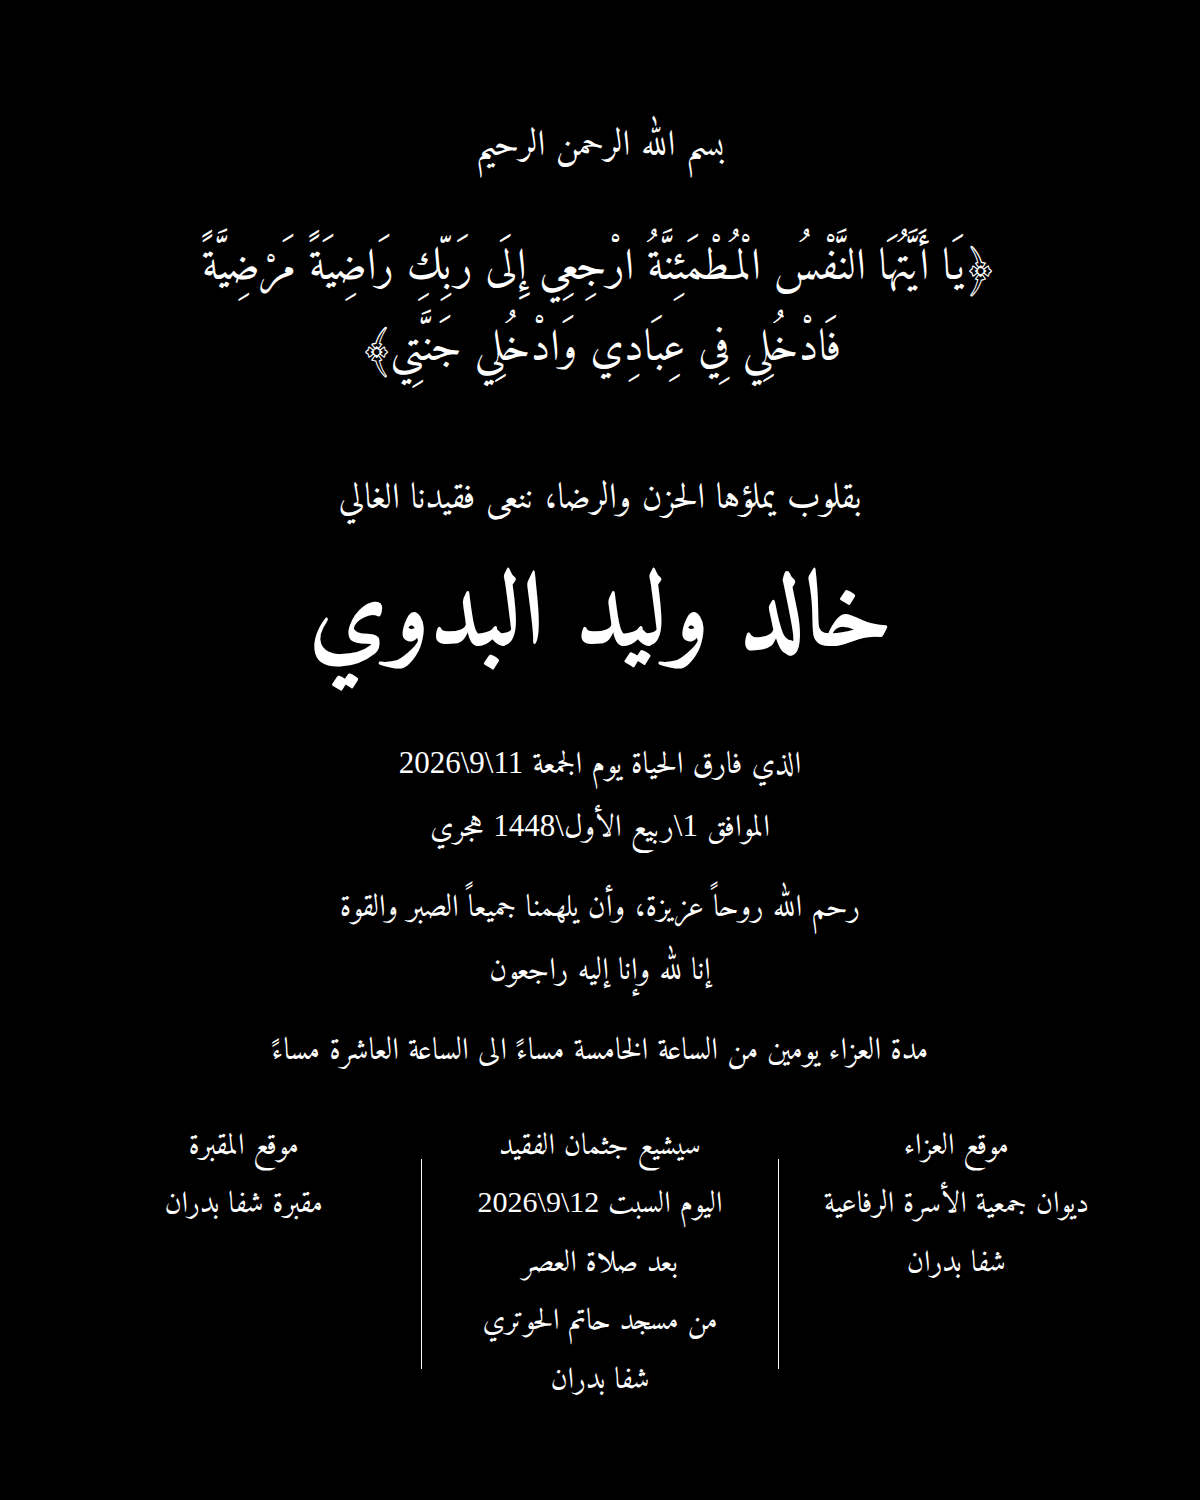
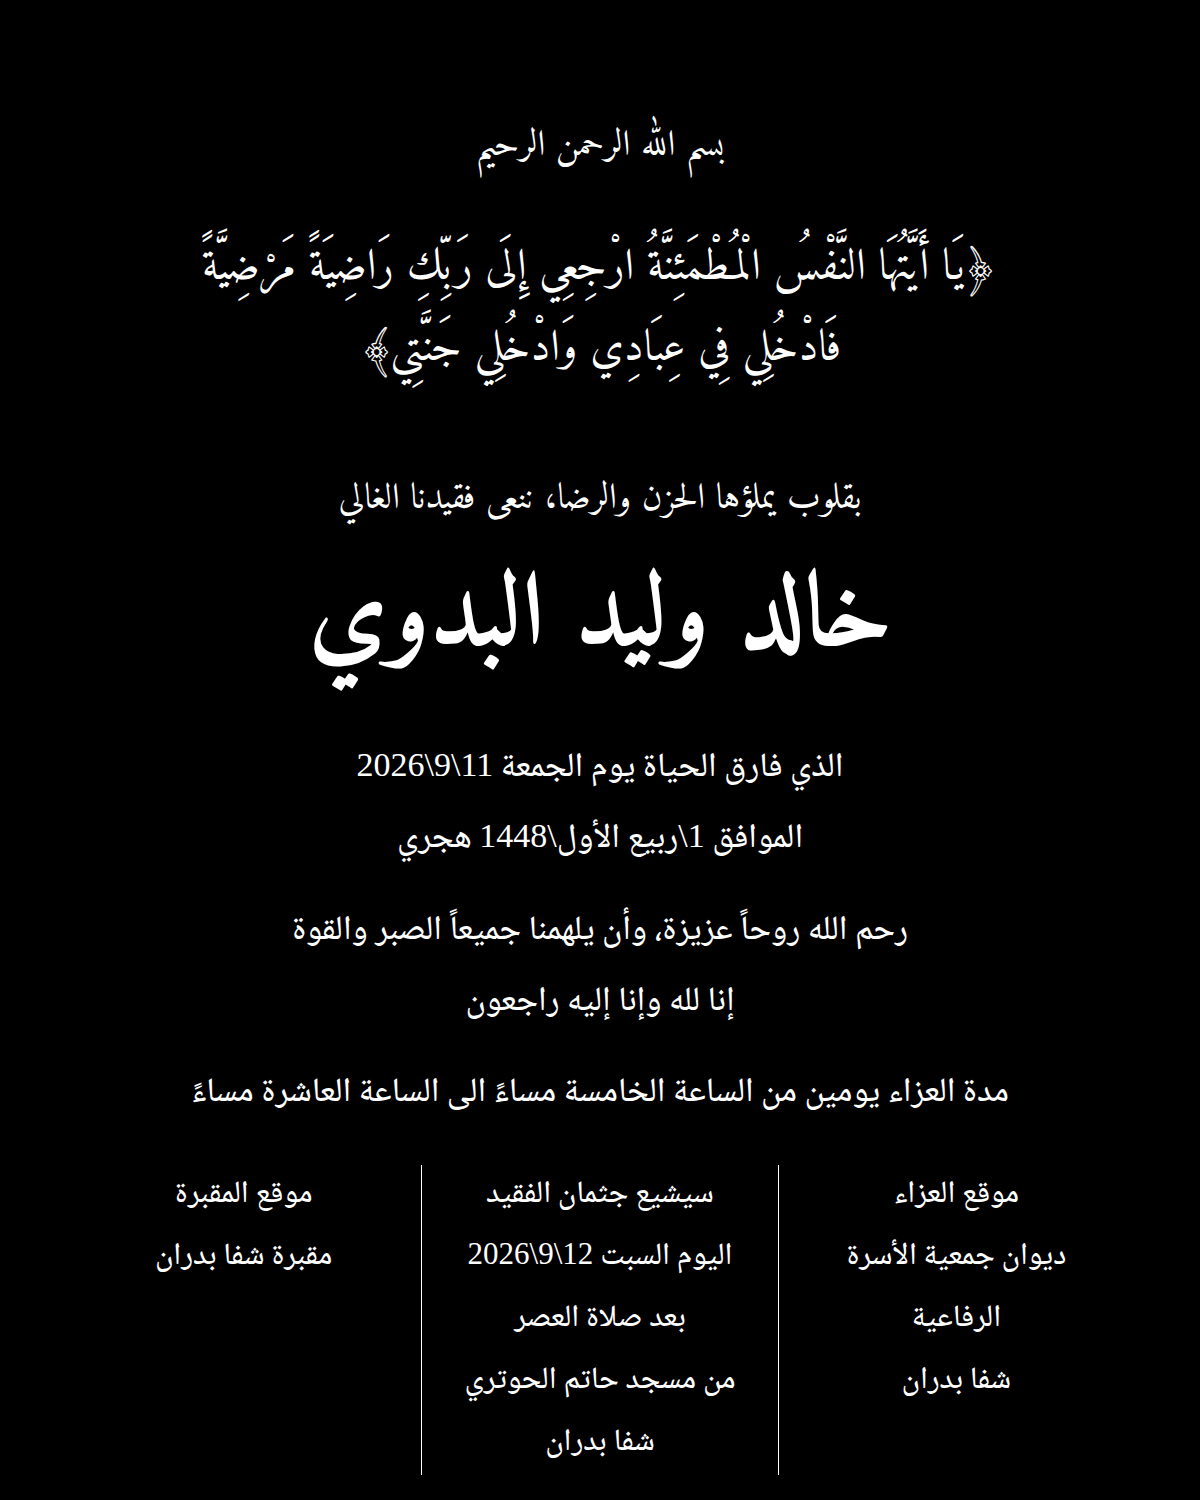
Set the card's lower half in a clearer face
Everything from the date line down was in a light naskh whose thin
strokes read poorly at that size. Set it in Noto Naskh at a larger size
instead, keeping the verse and the name as they were, and run the column
rules the full height of the block.

Claude-Session: https://claude.ai/code/session_01EyBEKd24a4krTEm4YGB4N2

Changed region(s): [[0.1233, 0.4907, 0.8942, 0.9813], [0.7708, 0.92, 0.8017, 0.9507]]

diff --git a/maps/index.html b/maps/index.html
@@ -14,8 +14,8 @@
   <meta property="og:url" content="https://www.wbadawi.info/maps/">
   <meta property="og:locale" content="ar_JO">
   <!-- صورة المعاينة عند مشاركة الرابط (واتساب وغيره) — مربّعة 1200×1200 لتظهر البطاقة كاملة -->
-  <meta property="og:image" content="https://www.wbadawi.info/assets/img/naei/khalid-albadawi-og.png?v=2">
-  <meta property="og:image:secure_url" content="https://www.wbadawi.info/assets/img/naei/khalid-albadawi-og.png?v=2">
+  <meta property="og:image" content="https://www.wbadawi.info/assets/img/naei/khalid-albadawi-og.png?v=3">
+  <meta property="og:image:secure_url" content="https://www.wbadawi.info/assets/img/naei/khalid-albadawi-og.png?v=3">
   <meta property="og:image:type" content="image/png">
   <meta property="og:image:width" content="1200">
   <meta property="og:image:height" content="1200">
@@ -23,8 +23,8 @@
   <meta name="twitter:card" content="summary_large_image">
   <meta name="twitter:title" content="المرحوم خالد وليد البدوي">
   <meta name="twitter:description" content="إنا لله وإنا إليه راجعون — مواعيد التشييع والعزاء ومواقع المسجد والمقبرة والديوان.">
-  <meta name="twitter:image" content="https://www.wbadawi.info/assets/img/naei/khalid-albadawi-og.png?v=2">
-  <link rel="image_src" href="https://www.wbadawi.info/assets/img/naei/khalid-albadawi-og.png?v=2">
+  <meta name="twitter:image" content="https://www.wbadawi.info/assets/img/naei/khalid-albadawi-og.png?v=3">
+  <link rel="image_src" href="https://www.wbadawi.info/assets/img/naei/khalid-albadawi-og.png?v=3">
   <link rel="canonical" href="https://www.wbadawi.info/maps/">
   <link rel="preconnect" href="https://fonts.googleapis.com">
   <link rel="preconnect" href="https://fonts.gstatic.com" crossorigin>
@@ -327,9 +327,9 @@
 
     <section class="notice reveal">
       <h1 class="sr-only">نعي المرحوم خالد وليد البدوي</h1>
-      <a class="notice__card" href="/assets/img/naei/khalid-albadawi.png?v=2">
+      <a class="notice__card" href="/assets/img/naei/khalid-albadawi.png?v=3">
         <img
-          src="/assets/img/naei/khalid-albadawi.png?v=2"
+          src="/assets/img/naei/khalid-albadawi.png?v=3"
           width="1200" height="1500" fetchpriority="high"
           alt="بسم الله الرحمن الرحيم. ﴿يا أيتها النفس المطمئنة ارجعي إلى ربك راضية مرضية فادخلي في عبادي وادخلي جنتي﴾. بقلوب يملؤها الحزن والرضا، ننعى فقيدنا الغالي خالد وليد البدوي، الذي فارق الحياة يوم الجمعة 11/9/2026 الموافق 1 ربيع الأول 1448 هجري. رحم الله روحاً عزيزة، وأن يلهمنا جميعاً الصبر والقوة. إنا لله وإنا إليه راجعون. مدة العزاء يومين من الساعة الخامسة مساءً إلى الساعة العاشرة مساءً. موقع العزاء: ديوان جمعية الأسرة الرفاعية، شفا بدران. سيشيع جثمان الفقيد اليوم السبت 12/9/2026 بعد صلاة العصر من مسجد حاتم الحوتري، شفا بدران. موقع المقبرة: مقبرة شفا بدران.">
       </a>
